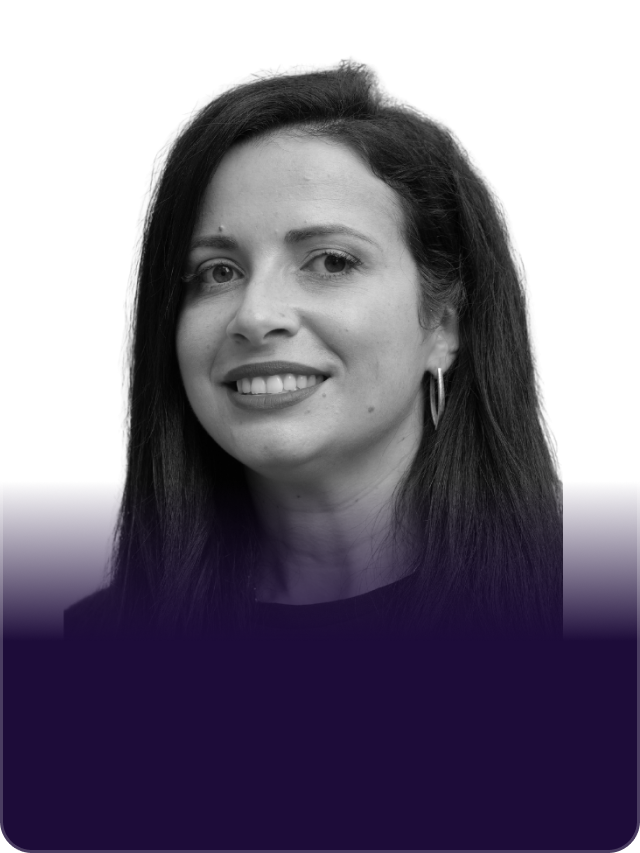
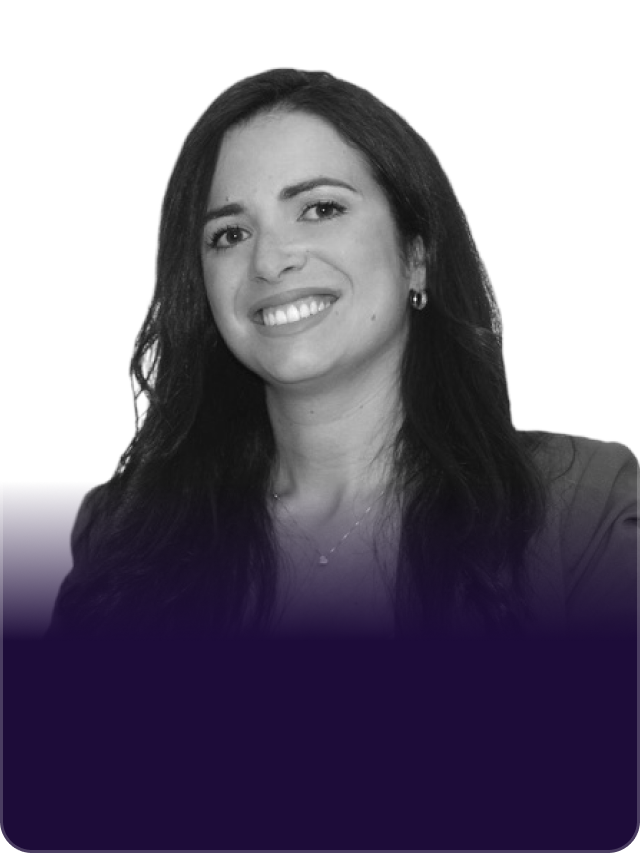
create new mega menu

Changed region(s): [[0.0625, 0.061, 1.0, 0.7315], [0.5312, 0.6706, 0.625, 0.7315], [0.25, 0.5487, 0.2812, 0.5791]]

diff --git a/src/constants/hometeam.ts b/src/constants/hometeam.ts
@@ -101,7 +101,7 @@ export const quraniumteam = [
     name: "Benjamin Shin",
     designation: "Investor Relation",
     twitter: "",
-    linkedin: "https://www.linkedin.com/in/shin-benjamin-62a16821b/",
+    linkedin: "",
     img: "/images/homepagev2/team/benjamin.png",
     description: [
       "Benjamin is the Chief Business Officer at Quranium.",
